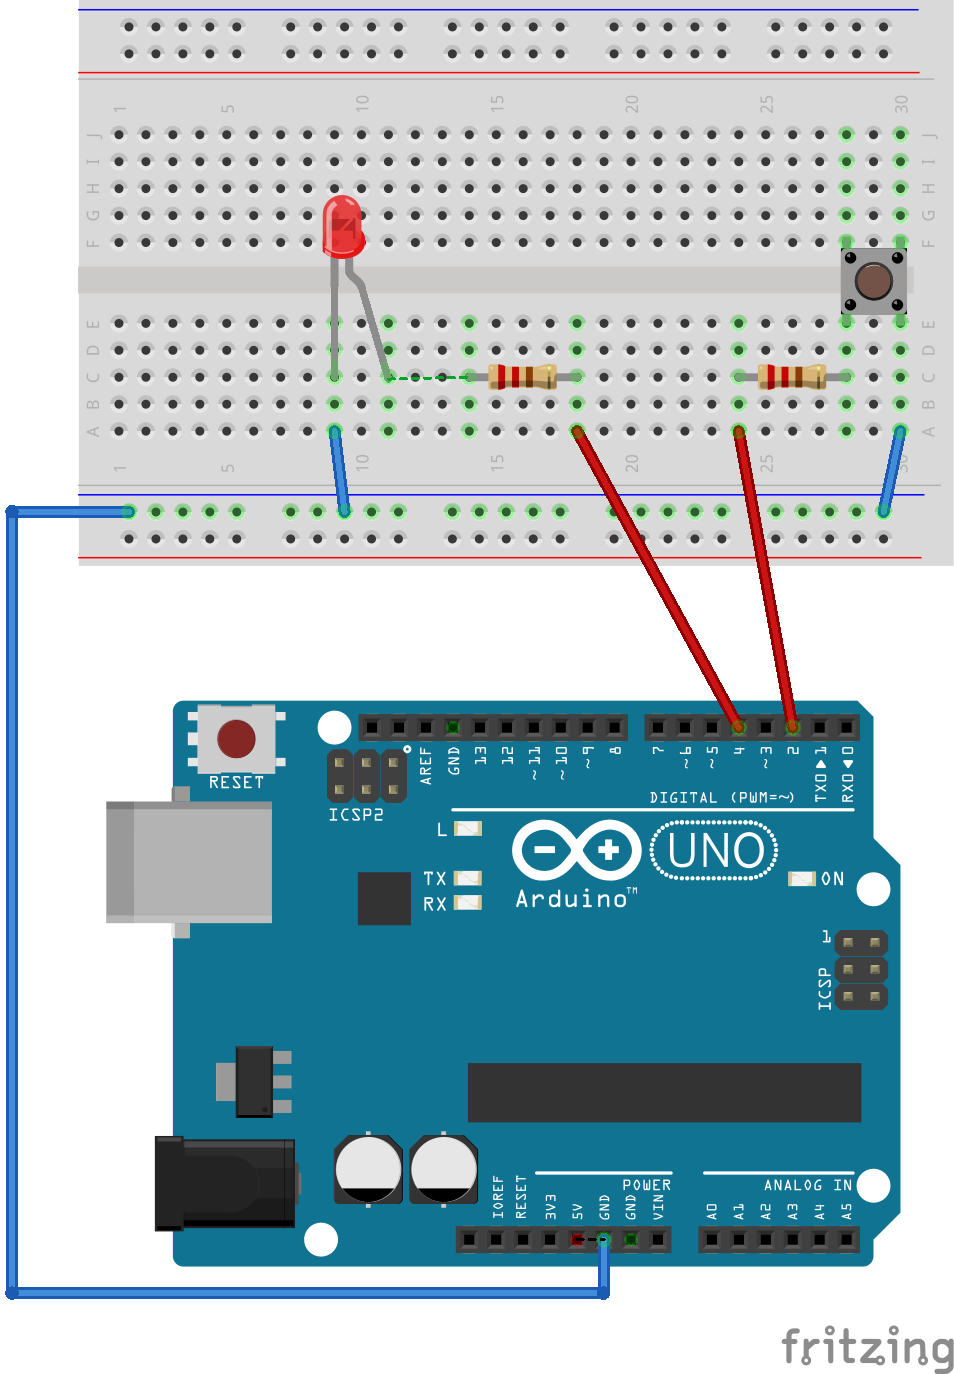
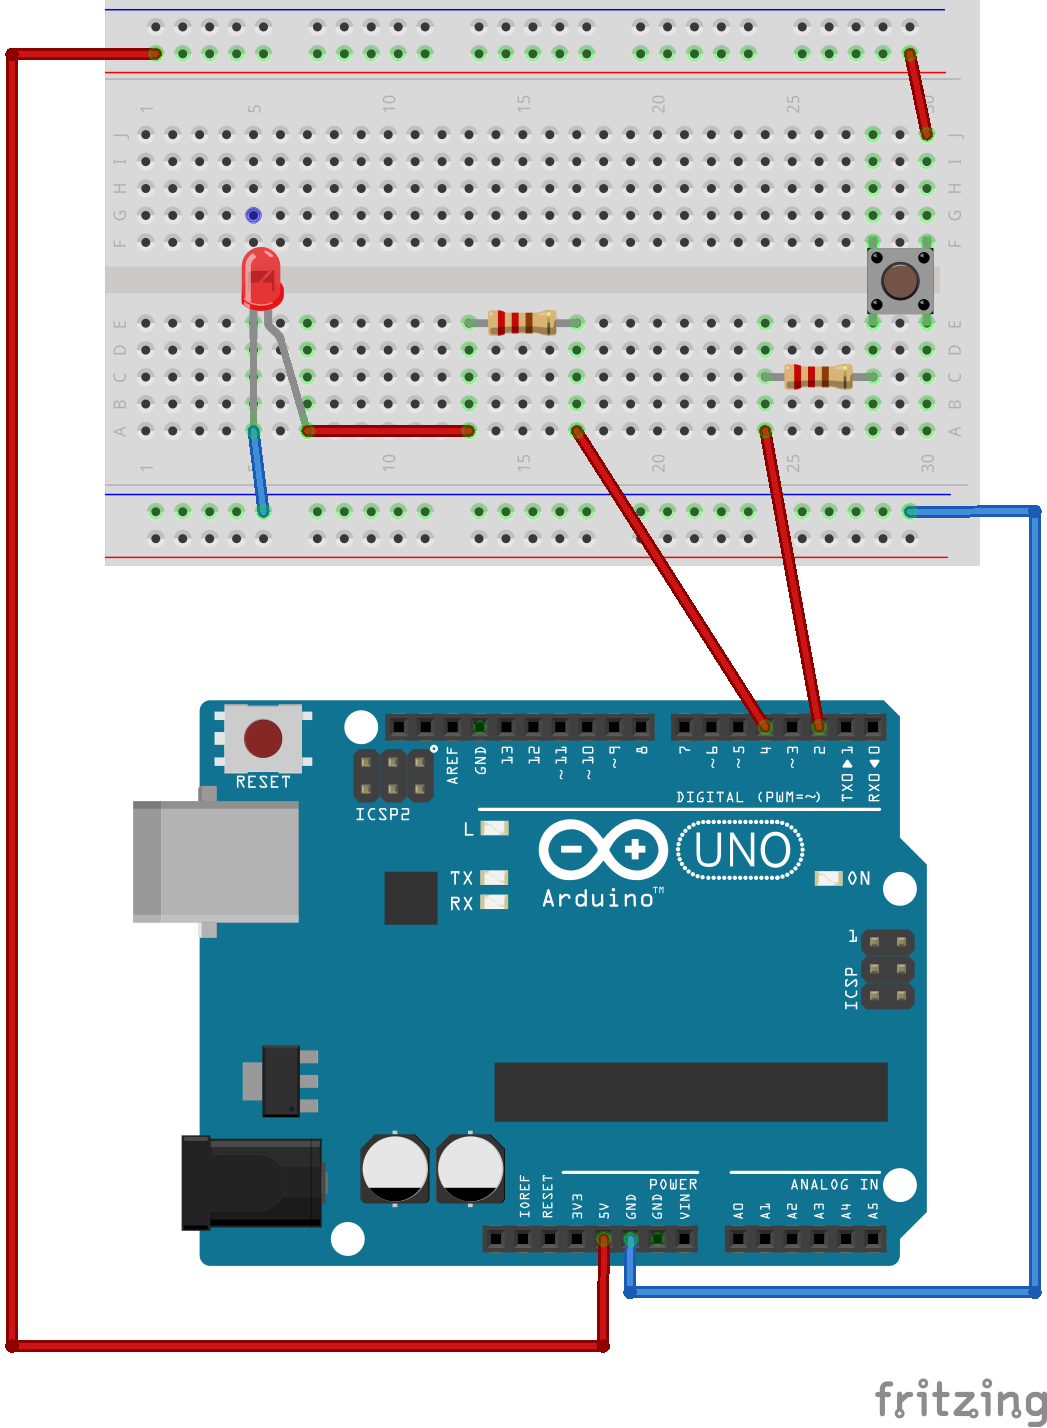
Fix some errors on "Proyecto_2"
-Borrar algunas lineas de código innecesarias.
-Corregir el diagrama del circuito, faltaba una conexión.
-Exportar el diagrama corregido a un PNG.
-Editar los cambios en Notas.md

diff --git a/Proyecto_2/Notas.md b/Proyecto_2/Notas.md
@@ -29,7 +29,6 @@ int led = 13;
 
 void setup ()
 {
-  Serial.begin(9600);
   pinMode(boton, INPUT_PULLUP);
   pinMode(led, OUTPUT);
 }
@@ -37,8 +36,6 @@ void setup ()
 void loop()
 {
  int valor = digitalRead(boton);
- Serial.println(valor, DEC);
- 
  if (valor == HIGH)
  {
    digitalWrite(led, LOW);
